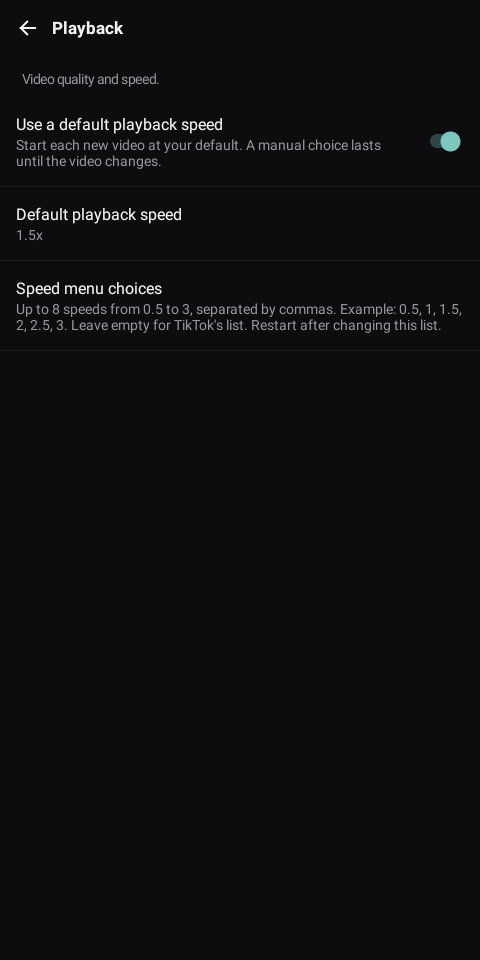
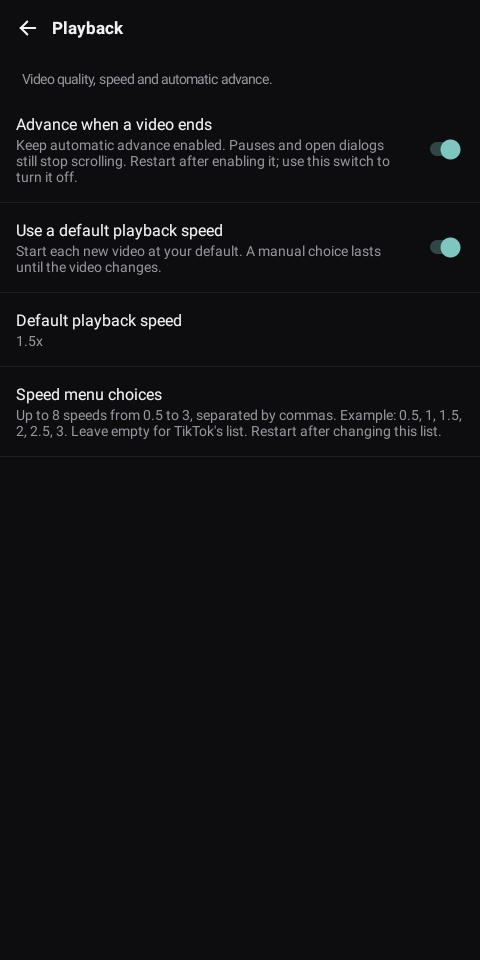
feat: keep native automatic video advance enabled
Reuse native eligible-feed scrolling and its pause, dialog, gesture and next-page checks. Track which components this option starts. Existing tests lacked automatic-advance lifecycle and ownership coverage; new tests exercise restart, pause, inactive views, refusal, disable cleanup and actual settings rendering without changing prior assertions.

diff --git a/patches/src/main/kotlin/app/morphe/patches/tiktok/interaction/looping/AutoAdvancePatch.kt b/patches/src/main/kotlin/app/morphe/patches/tiktok/interaction/looping/AutoAdvancePatch.kt
@@ -1,0 +1,115 @@
+package app.morphe.patches.tiktok.interaction.looping
+
+import app.morphe.patcher.Fingerprint
+import app.morphe.patcher.extensions.InstructionExtensions.addInstruction
+import app.morphe.patcher.extensions.InstructionExtensions.addInstructions
+import app.morphe.patcher.patch.bytecodePatch
+import app.morphe.patches.shared.compat.AppCompatibilities
+import app.morphe.patches.tiktok.misc.extension.sharedExtensionPatch
+import app.morphe.patches.tiktok.misc.settings.SettingsStatusLoadFingerprint
+import app.morphe.util.cloneMutable
+import app.morphe.util.getReference
+import com.android.tools.smali.dexlib2.AccessFlags
+import com.android.tools.smali.dexlib2.Opcode
+import com.android.tools.smali.dexlib2.iface.instruction.OneRegisterInstruction
+import com.android.tools.smali.dexlib2.iface.reference.FieldReference
+import com.android.tools.smali.dexlib2.iface.reference.MethodReference
+
+private const val EXTENSION = "Lapp/morphe/extension/tiktok/interaction/AutoAdvance;"
+private const val COMPONENT = "Lcom/ss/android/ugc/feed/platform/panel/autoscroll/AutoScrollComponent;"
+
+private object Availability : Fingerprint(returnType = "Z", parameters = emptyList(), strings = listOf("fyp_auto_scroll"))
+private object Completion : Fingerprint(definingClass = COMPONENT, name = "onPlayCompleted",
+    returnType = "V", parameters = listOf("Ljava/lang/String;"))
+private object Stop : Fingerprint(definingClass = COMPONENT, returnType = "V",
+    parameters = listOf("Ljava/lang/String;", "Z"), strings = listOf("turn_off_auto_scroll"))
+
+@Suppress("unused")
+val autoAdvancePatch = bytecodePatch(
+    name = "Automatic video advance",
+    description = "Keeps TikTok's automatic advance enabled while preserving its pause, dialog and gesture checks.",
+    default = false,
+) {
+    dependsOn(sharedExtensionPatch)
+    compatibleWith(*AppCompatibilities.tiktok4623())
+    execute {
+        val completed = Completion.method
+        val component = mutableClassDefBy(COMPONENT)
+        val state = completed.implementation!!.instructions.firstNotNullOf { instruction ->
+            instruction.getReference<FieldReference>()?.takeIf {
+                instruction.opcode == Opcode.IGET_OBJECT && it.definingClass == COMPONENT
+            }
+        }
+        val enumClass = mutableClassDefBy(state.type)
+        check(enumClass.superclass == "Ljava/lang/Enum;" &&
+            enumClass.fields.any { it.name == "AUTO_SCROLL_STATE_STOP" } &&
+            enumClass.fields.any { it.name == "AUTO_SCROLL_STATE_PAUSE" })
+        val aweme = completed.implementation!!.instructions.mapNotNull { it.getReference<MethodReference>() }
+            .filter { it.parameterTypes.isEmpty() && it.returnType == "Lcom/ss/android/ugc/aweme/feed/model/Aweme;" }
+            .distinctBy { it.toString() }.single()
+        val startCore = component.methods.single {
+            AccessFlags.STATIC.isSet(it.accessFlags) && it.returnType == "V" &&
+                it.parameterTypes == listOf(COMPONENT, "Z", "Z", "Z", "I")
+        }
+        val start = component.methods.single { method ->
+            method.parameterTypes == listOf("Z", "Z") && method.returnType == "V" &&
+                method.implementation!!.instructions.any { it.getReference<MethodReference>()?.toString() == startCore.toString() }
+        }
+        val stop = Stop.method
+        val extension = mutableClassDefBy(EXTENSION)
+        fun bridge(name: String, registers: Int, code: String) {
+            val original = extension.methods.single { it.name == name }
+            val replacement = original.cloneMutable(additionalRegisters = registers)
+            extension.methods.remove(original)
+            extension.methods.add(replacement)
+            replacement.addInstructions(0, code)
+        }
+        bridge("readState", 1, """
+            check-cast p0, $COMPONENT
+            iget-object v0, p0, $state
+            return-object v0
+        """)
+        bridge("readAweme", 1, """
+            check-cast p0, $COMPONENT
+            invoke-virtual/range {p0 .. p0}, $aweme
+            move-result-object v0
+            return-object v0
+        """)
+        bridge("start", 3, """
+            check-cast p0, $COMPONENT
+            move-object/from16 v0, p0
+            const/4 v1, 0x0
+            const/4 v2, 0x0
+            invoke-virtual/range {v0 .. v2}, $start
+            return-void
+        """)
+        bridge("stop", 3, """
+            check-cast p0, $COMPONENT
+            move-object/from16 v0, p0
+            const-string v1, ""
+            const/4 v2, 0x0
+            invoke-virtual/range {v0 .. v2}, $stop
+            return-void
+        """)
+        component.methods.single { it.name == "onViewCreated" && it.parameterTypes == listOf("Landroid/view/View;") }
+            .addInstruction(0, "invoke-static/range {p0 .. p1}, $EXTENSION->onView(Ljava/lang/Object;Landroid/view/View;)V")
+        for (name in listOf("onResume", "onDestroy")) {
+            component.methods.single { it.name == name && it.parameterTypes.isEmpty() }
+                .addInstruction(0, "invoke-static/range {p0 .. p0}, $EXTENSION->$name(Ljava/lang/Object;)V")
+        }
+        completed.addInstruction(0,
+            "invoke-static/range {p0 .. p1}, $EXTENSION->beforeCompletion(Ljava/lang/Object;Ljava/lang/String;)V")
+        val available = Availability.method
+        val returns = available.implementation!!.instructions.withIndex().filter { it.value.opcode == Opcode.RETURN }
+        check(returns.isNotEmpty())
+        returns.asReversed().forEach { (index, instruction) ->
+            val register = (instruction as OneRegisterInstruction).registerA
+            available.addInstructions(index, """
+                invoke-static/range {v$register .. v$register}, $EXTENSION->available(Z)Z
+                move-result v$register
+            """)
+        }
+        SettingsStatusLoadFingerprint.method.addInstruction(0,
+            "invoke-static {}, Lapp/morphe/extension/tiktok/settings/SettingsStatus;->enableAutoAdvance()V")
+    }
+}

diff --git a/extensions/tiktok/src/test/java/app/morphe/extension/tiktok/interaction/AutoAdvanceTest.java b/extensions/tiktok/src/test/java/app/morphe/extension/tiktok/interaction/AutoAdvanceTest.java
@@ -1,0 +1,103 @@
+package app.morphe.extension.tiktok.interaction;
+
+import static org.junit.Assert.*;
+import android.view.View;
+import app.morphe.extension.shared.Utils;
+import app.morphe.extension.tiktok.settings.Settings;
+import app.morphe.extension.tiktok.settings.SettingsStatus;
+import app.morphe.extension.tiktok.settings.preference.TikTokPreferenceFragment;
+import java.util.concurrent.atomic.AtomicInteger;
+import java.util.concurrent.atomic.AtomicReference;
+import org.junit.Before;
+import org.junit.Test;
+import org.junit.runner.RunWith;
+import org.robolectric.Robolectric;
+import org.robolectric.RobolectricTestRunner;
+import org.robolectric.RuntimeEnvironment;
+import org.robolectric.annotation.Config;
+import org.robolectric.annotation.GraphicsMode;
+
+@RunWith(RobolectricTestRunner.class)
+@Config(sdk = 28, qualifiers = "night")
+@GraphicsMode(GraphicsMode.Mode.NATIVE)
+public class AutoAdvanceTest {
+    enum State { AUTO_SCROLL_STATE_START, AUTO_SCROLL_STATE_STOP, AUTO_SCROLL_STATE_PAUSE }
+    static final class FeedView extends View {
+        boolean attached = true, shown = true, focused = true;
+        FeedView() { super(RuntimeEnvironment.getApplication()); }
+        @Override public boolean isAttachedToWindow() { return attached; }
+        @Override public boolean isShown() { return shown; }
+        @Override public boolean hasWindowFocus() { return focused; }
+    }
+    @Before public void setup() {
+        Utils.setContext(RuntimeEnvironment.getApplication());
+        Settings.AUTO_ADVANCE.save(true);
+    }
+    @Test public void restartsNativeStopButPreservesPauseAndStopsWhenDisabled() {
+        var control = new AutoAdvance.Control(new FeedView());
+        var state = new AtomicReference<>(State.AUTO_SCROLL_STATE_STOP);
+        var starts = new AtomicInteger();
+        var stops = new AtomicInteger();
+        Runnable start = () -> { starts.incrementAndGet(); state.set(State.AUTO_SCROLL_STATE_START); };
+        Runnable stop = () -> { stops.incrementAndGet(); state.set(State.AUTO_SCROLL_STATE_STOP); };
+        control.update(state::get, start, stop);
+        assertEquals(1, starts.get());
+        assertTrue(control.owned);
+        control.update(state::get, start, stop);
+        assertEquals(1, starts.get());
+        state.set(State.AUTO_SCROLL_STATE_PAUSE);
+        control.update(state::get, start, stop);
+        assertEquals(State.AUTO_SCROLL_STATE_PAUSE, state.get());
+        state.set(State.AUTO_SCROLL_STATE_STOP);
+        control.update(state::get, start, stop);
+        assertEquals(2, starts.get());
+        Settings.AUTO_ADVANCE.save(false);
+        control.update(state::get, start, stop);
+        control.update(state::get, start, stop);
+        assertEquals(1, stops.get());
+        assertFalse(control.owned);
+    }
+    @Test public void disabledSettingLeavesPreexistingNativeAutoScrollAlone() {
+        var control = new AutoAdvance.Control(new FeedView());
+        var state = new AtomicReference<>(State.AUTO_SCROLL_STATE_START);
+        control.update(state::get, () -> fail("Already running"), () -> fail("Native ownership"));
+        Settings.AUTO_ADVANCE.save(false);
+        control.update(state::get, () -> fail("Disabled"), () -> fail("Native ownership"));
+        assertFalse(AutoAdvance.available(false));
+        assertTrue(AutoAdvance.available(true));
+    }
+    @Test public void hiddenDetachedAndUnfocusedViewsCannotStartScrolling() {
+        FeedView view = new FeedView();
+        var control = new AutoAdvance.Control(view);
+        for (int i = 0; i < 3; i++) {
+            view.attached = i != 0;
+            view.shown = i != 1;
+            view.focused = i != 2;
+            control.update(() -> State.AUTO_SCROLL_STATE_STOP, () -> fail("Inactive view"), () -> fail("Inactive view"));
+        }
+        view.attached = view.shown = view.focused = true;
+        control.update(() -> null, () -> fail("Unknown state"), () -> fail("Unknown state"));
+    }
+    @Test public void nativeRefusalDoesNotClaimOwnershipAndSettingIsReachable() throws Exception {
+        var control = new AutoAdvance.Control(new FeedView());
+        control.update(() -> State.AUTO_SCROLL_STATE_STOP, () -> { }, () -> fail("Not started"));
+        assertFalse(control.owned);
+        try (var owner = Robolectric.buildActivity(app.morphe.extension.tiktok.captions.CaptionToolsTest.CaptionActivity.class).setup().visible()) {
+            var activity = owner.get();
+            Utils.setContext(activity);
+            Utils.setIsDarkModeEnabled(true);
+            SettingsStatus.autoAdvanceEnabled = true;
+            SettingsStatus.playbackSpeedEnabled = true;
+            SettingsStatus.playbackQualityEnabled = true;
+            var fragment = new TikTokPreferenceFragment();
+            android.os.Bundle arguments = new android.os.Bundle();
+            arguments.putString("morphe_settings_section", "PLAYBACK");
+            fragment.setArguments(arguments);
+            activity.getFragmentManager().beginTransaction().replace(android.R.id.content, fragment).commit();
+            activity.getFragmentManager().executePendingTransactions();
+            assertNotNull(fragment.findPreference("auto_advance"));
+            org.robolectric.Shadows.shadowOf(android.os.Looper.getMainLooper()).idle();
+            app.morphe.extension.tiktok.UiCapture.save(activity.getWindow().getDecorView(), "auto-advance-settings.png");
+        }
+    }
+}

diff --git a/extensions/tiktok/src/main/java/app/morphe/extension/tiktok/interaction/AutoAdvance.java b/extensions/tiktok/src/main/java/app/morphe/extension/tiktok/interaction/AutoAdvance.java
@@ -1,0 +1,92 @@
+package app.morphe.extension.tiktok.interaction;
+
+import android.content.SharedPreferences;
+import android.os.Handler;
+import android.os.Looper;
+import android.view.View;
+import app.morphe.extension.shared.Logger;
+import app.morphe.extension.shared.settings.Setting;
+import app.morphe.extension.tiktok.blockauthor.Reflect;
+import app.morphe.extension.tiktok.settings.Settings;
+import java.lang.ref.WeakReference;
+import java.util.ArrayList;
+import java.util.Map;
+import java.util.WeakHashMap;
+import java.util.function.Supplier;
+
+public final class AutoAdvance {
+    private static final Handler MAIN = new Handler(Looper.getMainLooper());
+    private static final Map<Object, Control> CONTROLS = new WeakHashMap<>();
+    private static boolean observing;
+    private static final SharedPreferences.OnSharedPreferenceChangeListener PREFERENCES = (preferences, key) -> {
+        if (key == null || Settings.AUTO_ADVANCE.key.equals(key)) MAIN.post(() -> {
+            for (Object component : new ArrayList<>(CONTROLS.keySet())) update(component);
+        });
+    };
+    private AutoAdvance() { }
+
+    public static boolean available(boolean nativeValue) { return Settings.AUTO_ADVANCE.get() || nativeValue; }
+
+    public static void onView(Object component, View view) {
+        if (Looper.myLooper() != Looper.getMainLooper() || component == null || view == null) return;
+        if (!observing) {
+            Setting.preferences.preferences.registerOnSharedPreferenceChangeListener(PREFERENCES);
+            observing = true;
+        }
+        Control next = new Control(view);
+        Control previous = CONTROLS.put(component, next);
+        next.owned = previous != null && previous.owned;
+        onResume(component);
+    }
+
+    public static void onResume(Object component) {
+        WeakReference<Object> owner = new WeakReference<>(component);
+        MAIN.post(() -> update(owner.get()));
+    }
+
+    public static void beforeCompletion(Object component, String completedId) {
+        if (Looper.myLooper() != Looper.getMainLooper() || completedId == null) return;
+        String current = Reflect.string(readAweme(component), "getAid", "aid");
+        if (completedId.equals(current)) update(component);
+    }
+
+    public static void onDestroy(Object component) { CONTROLS.remove(component); }
+
+    private static void update(Object component) {
+        Control control = CONTROLS.get(component);
+        if (control == null) return;
+        try {
+            control.update(() -> readState(component), () -> start(component), () -> stop(component));
+        } catch (RuntimeException error) {
+            Logger.printException(() -> "Could not update automatic advance", error);
+        }
+    }
+
+    static final class Control {
+        final WeakReference<View> view;
+        boolean owned;
+        Control(View view) { this.view = new WeakReference<>(view); }
+
+        void update(Supplier<Object> state, Runnable start, Runnable stop) {
+            if (!Settings.AUTO_ADVANCE.get()) {
+                if (owned) { stop.run(); owned = false; }
+                return;
+            }
+            View live = view.get();
+            if (live == null || !live.isAttachedToWindow() || !live.isShown() || !live.hasWindowFocus()) return;
+            if (!named(state.get(), "AUTO_SCROLL_STATE_STOP")) return;
+            start.run();
+            owned = !named(state.get(), "AUTO_SCROLL_STATE_STOP");
+        }
+    }
+
+    private static boolean named(Object state, String name) {
+        return state instanceof Enum<?> && ((Enum<?>) state).name().equals(name);
+    }
+
+    // Replaced with native calls when the patch is applied.
+    private static Object readAweme(Object component) { return null; }
+    private static Object readState(Object component) { return null; }
+    private static void start(Object component) { }
+    private static void stop(Object component) { }
+}

diff --git a/extensions/tiktok/src/main/java/app/morphe/extension/tiktok/settings/preference/TikTokPreferenceFragment.java b/extensions/tiktok/src/main/java/app/morphe/extension/tiktok/settings/preference/TikTokPreferenceFragment.java
@@ -58,7 +58,7 @@ public class TikTokPreferenceFragment extends AbstractPreferenceFragment {
         INTERFACE("Interface", "Promotions, popups, publish dates, and feed controls."),
         COMMENTS("Comments and translation", "Auto translate, quick reactions, and copy options."),
         DOWNLOADS("Downloads", "Path, watermark, and offline videos."),
-        PLAYBACK("Playback", "Video quality and speed."),
+        PLAYBACK("Playback", "Video quality, speed and automatic advance."),
         INBOX("Inbox", "Rows, stories tray, and header controls."),
         SHARE("Share sheet", "Confirm before sending, and hidden people and options."),
         REGION("Region settings", "Country, operator, locale and timezone."),
@@ -320,11 +320,12 @@ public class TikTokPreferenceFragment extends AbstractPreferenceFragment {
                     SettingsStatus.downloadEnabled && Settings.CUSTOM_OFFLINE_VIDEOS.get()
             ));
         }
-        if (SettingsStatus.playbackQualityEnabled || SettingsStatus.playbackSpeedEnabled) {
+        if (SettingsStatus.playbackQualityEnabled || SettingsStatus.playbackSpeedEnabled || SettingsStatus.autoAdvanceEnabled) {
             addMenu(screen, Section.PLAYBACK, SettingsMenuPreference.Icon.BEHAVIOR,
                     countEnabled(SettingsStatus.playbackQualityEnabled && !"auto".equals(Settings.PLAYBACK_QUALITY.get()),
                             SettingsStatus.playbackSpeedEnabled && Settings.DEFAULT_SPEED_ENABLED.get(),
-                            SettingsStatus.playbackSpeedEnabled && !Settings.CUSTOM_SPEEDS.get().trim().isEmpty()));
+                            SettingsStatus.playbackSpeedEnabled && !Settings.CUSTOM_SPEEDS.get().trim().isEmpty(),
+                            SettingsStatus.autoAdvanceEnabled && Settings.AUTO_ADVANCE.get()));
         }
         if (SettingsStatus.inboxFilterEnabled
                 || SettingsStatus.hideSuggestedAccountsEnabled

diff --git a/extensions/tiktok/src/main/java/app/morphe/extension/tiktok/settings/preference/categories/PlaybackPreferenceCategory.java b/extensions/tiktok/src/main/java/app/morphe/extension/tiktok/settings/preference/categories/PlaybackPreferenceCategory.java
@@ -18,10 +18,15 @@ public final class PlaybackPreferenceCategory extends ConditionalPreferenceCateg
     }
 
     @Override public boolean getSettingsStatus() {
-        return SettingsStatus.playbackQualityEnabled || SettingsStatus.playbackSpeedEnabled;
+        return SettingsStatus.playbackQualityEnabled || SettingsStatus.playbackSpeedEnabled || SettingsStatus.autoAdvanceEnabled;
     }
 
     @Override public void addPreferences(Context context) {
+        if (SettingsStatus.autoAdvanceEnabled) {
+            addPreference(new TogglePreference(context, "Advance when a video ends",
+                    "Keep automatic advance enabled. Pauses and open dialogs still stop scrolling. Restart after enabling it; use this switch to turn it off.",
+                    Settings.AUTO_ADVANCE));
+        }
         if (SettingsStatus.playbackSpeedEnabled) {
             addPreference(new TogglePreference(context, "Use a default playback speed",
                     "Start each new video at your default. A manual choice lasts until the video changes.",

diff --git a/extensions/tiktok/src/main/java/app/morphe/extension/tiktok/settings/Settings.java b/extensions/tiktok/src/main/java/app/morphe/extension/tiktok/settings/Settings.java
@@ -150,6 +150,7 @@ public class Settings extends BaseSettings {
     public static final BooleanSetting DEFAULT_SPEED_ENABLED = new BooleanSetting("default_speed_enabled", FALSE);
     public static final StringSetting DEFAULT_SPEED = new StringSetting("default_speed", "1.5");
     public static final StringSetting CUSTOM_SPEEDS = new StringSetting("custom_speeds", "", true);
+    public static final BooleanSetting AUTO_ADVANCE = new BooleanSetting("auto_advance", FALSE, true);
     public static final BooleanSetting ENABLE_LONG_PRESS_SPEED_LOCK = new BooleanSetting("enable_long_press_speed_lock", FALSE, true);
     public static final BooleanSetting NOT_INTERESTED_BUTTON = new BooleanSetting("not_interested_button", FALSE);
     public static final BooleanSetting BLOCK_AUTHOR_BUTTON =

diff --git a/extensions/tiktok/src/main/java/app/morphe/extension/tiktok/settings/SettingsStatus.java b/extensions/tiktok/src/main/java/app/morphe/extension/tiktok/settings/SettingsStatus.java
@@ -21,6 +21,8 @@ public class SettingsStatus {
     public static boolean playbackQualityEnabled;
     public static boolean playbackSpeedEnabled;
     public static void enablePlaybackSpeed() { playbackSpeedEnabled = true; }
+    public static boolean autoAdvanceEnabled;
+    public static void enableAutoAdvance() { autoAdvanceEnabled = true; }
     public static void enablePlaybackQuality() { playbackQualityEnabled = true; }
     public static boolean advancedDownloadsEnabled;
     public static void enableAdvancedDownloads() { advancedDownloadsEnabled = true; }

diff --git a/README.md b/README.md
@@ -51,6 +51,7 @@ The goal is to keep the existing patch set usable while adding more TikTok-focus
 
 | Patch | Description |
 |---|---|
+| `Automatic video advance` | Keeps native automatic advance enabled. TikTok still checks pauses, dialogs, gestures and whether another video is available. Turn it off in Playback to stop advance started by this option. |
 | `Foldable split comment view` | Enables comments beside the video from a configurable window width (600 dp by default). Off by default, with multi-window and picture-in-picture restrictions preserved. Restart after changing its settings or unfolding if TikTok keeps the old layout. |
 | `Subtitle tools` | Saves captions as SRT files beside downloaded videos. Choose original, device or all available languages, adjust caption size and background, and keep the current caption visible in clear display. |
 | `Playback quality` | Chooses the lowest, highest or a target video quality for regular and adaptive playback. Download quality has its own setting. |
@@ -114,6 +115,10 @@ The goal is to keep the existing patch set usable while adding more TikTok-focus
 Playback has an optional default speed for every new video. A manual choice lasts until you change videos. To add 2.5x, enter it in Speed menu choices and restart TikTok; an empty list restores TikTok's menu.
 
 <img src="assets/playback-speed-settings.png" alt="Default playback speed and custom menu settings" width="300" />
+
+Select `Automatic video advance` in the patcher, then enable Advance when a video ends in Playback and restart. The option re-enables native auto-scroll if TikTok turns it off. Use the Playback switch to disable it.
+
+<img src="assets/auto-advance-settings.png" alt="Automatic advance and playback settings" width="300" />
 
 Foldable controls are in App behavior. Settings save immediately. A notification tells you when to restart TikTok.
 

diff --git a/CHANGELOG.md b/CHANGELOG.md
@@ -1,5 +1,7 @@
 ## Unreleased
 
+* Added persistent automatic video advance using TikTok's native completion handler, with pause and dialog checks preserved. Disabling the option stops the scrolling it started.
+
 * Added a default playback speed for each new video and custom speed menu choices through 3x. Manual choices remain active for the current video, and the native menu state follows the player.
 
 * Reject malformed country input and preserve locale scripts and extensions when a legacy variant needs fallback handling.
